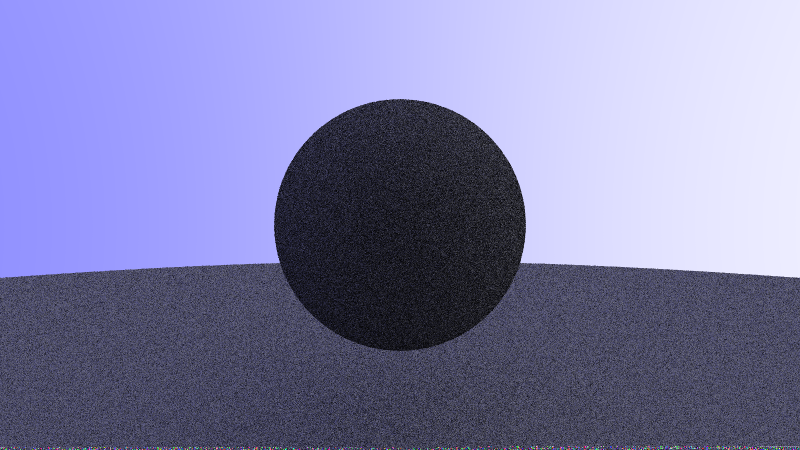
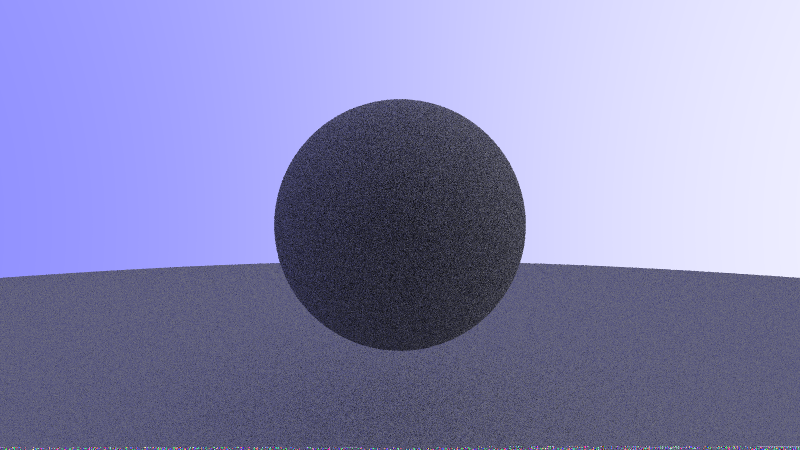
feat : lambertian diffuse reflection added

Changed region(s): [[0.0, 0.2178, 1.0, 1.0]]

diff --git a/lib/camera.h b/lib/camera.h
@@ -20,7 +20,7 @@ public:
     void render(const hittable& world){
         init();
         const double sampling_factor = 10;
-        int max_depth = 10;
+        int max_depth = 50;
         uint8_t image_data[width*height*3];
         for (int i=0; i<height; i++)
         {
@@ -53,7 +53,7 @@ public:
                 image_data[i * width * 3 + j * 3 + 2] += ib;
             }
         }
-        stbi_write_png("../Images/diffuse.png",width,height,3,image_data,width*3);
+        stbi_write_png("../Images/diffuse_Lambertian .png",width,height,3,image_data,width*3);
     }
 private:
     int width{},height{};
@@ -85,10 +85,10 @@ private:
         hit_record h;
         if (depth <= 0)
             return {0,0,0};
-        if (world.hit(r,interval(0.0,infinity),h))
+        if (world.hit(r,interval(0.0001,infinity),h))
         {
-            vec3 dir = random_on_hemisphere(h.normal);
-            ray dr(h.hp,dir);
+            vec3 dir = unit_vector(h.normal + random_unit_vector());
+            ray dr(h.hp, dir);
             return 0.5* ray_color(dr,world,depth-1);
         }
         auto a = (r.get_direction().x() + 1.0)*0.5;
